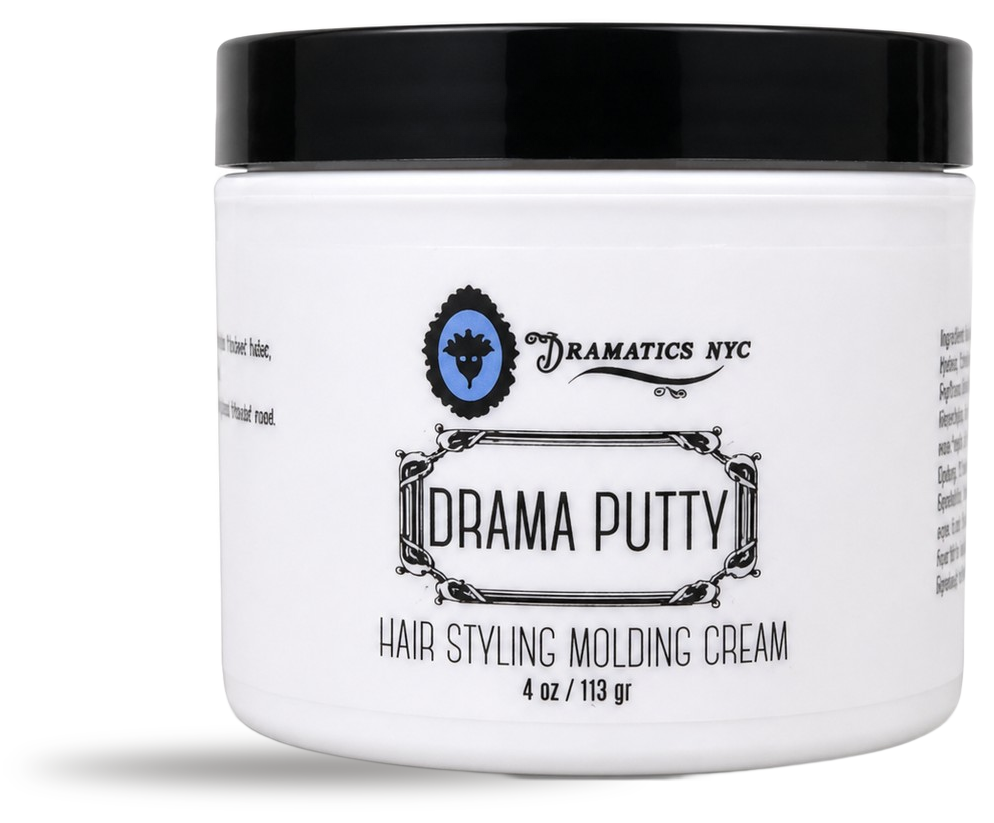
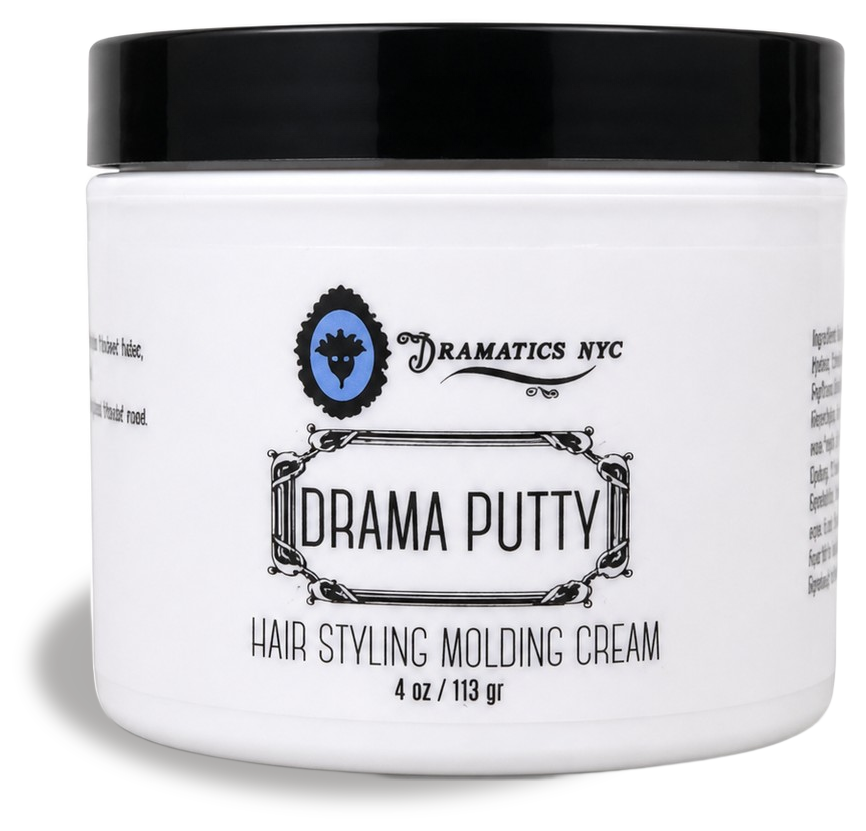
Products: every Dramatics NYC cutout gets the Healthy Color shadow (footprint cast lower-left, calibrated against Diesel Hayes and Ocean Beach); Quantum Leap, Forever Young and Color Protect Shampoo re-cut cleanly; Healthy Color originals untouched

diff --git a/scripts/product-shadows.py b/scripts/product-shadows.py
@@ -1,53 +1,86 @@
 #!/usr/bin/env python3
 """
-Give a clean product cutout (transparent PNG, no baked-in shadow) the same soft
-floor shadow the Ocean Beach Sea Salt Spray photo (42263.png) has: the base
-ellipse of the product, pushed to the lower left and heavily blurred, so most of
-it peeks out on the left of the base with a little under the bottom edge.
+Product cutout shadows, matched to the photographed shadow on the Healthy Color
+line (Diesel Hayes 38421.png, Ocean Beach 42263.png): the product's footprint
+ellipse cast to the lower left, soft, dark, strongest against the body.
 
 Usage:
-  python3 scripts/product-shadows.py <cutout.png> <out.png>
+  python3 scripts/product-shadows.py strip <in.png> <out.png>   # remove baked shadow
+  python3 scripts/product-shadows.py shadow <in.png> <out.png>  # add the house shadow
+  python3 scripts/product-shadows.py measure <in.png>           # print shadow geometry
 
-Only run this on cutouts WITHOUT an existing shadow. Products whose original
-photo already carries a real shadow (the Healthy Color line, Quantum Leap,
-Forever Young, Color Protect Shampoo) are left untouched.
+Measured on the reference photos (1024px): the shadow is offset left by about
+0.13 of the product height and down by about 0.02, the footprint ellipse is
+about 0.4 as tall as it is wide (camera slightly above), peak alpha about 0.43,
+color about (50, 46, 43).
 """
 import sys
 import numpy as np
 from PIL import Image, ImageFilter
+from scipy.ndimage import binary_fill_holes, binary_dilation, label
 
-SHADOW_RGB = (50, 46, 43)   # sampled from 42263.png
-PEAK_ALPHA = 0.55           # centre of the ellipse (42263 peaks ~0.43 next to the body)
+SHADOW_RGB = (50, 46, 43)
+PEAK_ALPHA = 0.50
+LEFT = 0.13      # of body height
+DOWN = 0.025     # of body height
+FOOT = 0.40      # footprint ellipse height / width
+BLUR = 0.013     # of body height
 
 
-def add_shadow(src: str, dst: str) -> None:
+def body_mask(alpha: np.ndarray) -> np.ndarray:
+    solid = binary_fill_holes(alpha >= 250)
+    lab, n = label(solid)
+    if n == 0:
+        return alpha > 128
+    sizes = np.bincount(lab.ravel())
+    sizes[0] = 0
+    return lab == sizes.argmax()
+
+
+def strip(src: str, dst: str) -> None:
+    """Keep the solid product (plus its 2px anti-aliased edge); drop any
+    semi-transparent baked-in shadow around it."""
+    im = Image.open(src).convert("RGBA")
+    a = np.array(im)
+    alpha = a[..., 3]
+    core = body_mask(alpha)
+    keep = binary_dilation(core, iterations=2)
+    # feathered product pixels that blend into the shadow: keep anything whose
+    # colour is clearly not the shadow colour, as long as it touches the body
+    rgb = a[..., :3].astype(int)
+    dist = np.abs(rgb - np.array(SHADOW_RGB)).sum(axis=2)
+    candidate = (alpha > 0) & (dist > 90)
+    grown = candidate & binary_dilation(core, iterations=12)
+    keep |= grown
+    a[..., 3] = np.where(keep, alpha, 0)
+    Image.fromarray(a).save(dst, optimize=True)
+
+
+def shadow(src: str, dst: str) -> None:
     im = Image.open(src).convert("RGBA")
     alpha = np.array(im)[..., 3]
-    ys, xs = np.where(alpha > 128)
+    body = body_mask(alpha)
+    ys, xs = np.where(body)
     top, bottom = ys.min(), ys.max()
     h = bottom - top + 1
 
-    # base span: widest rows in the bottom 5% of the body
-    base_rows = alpha[bottom - int(h * 0.05):bottom + 1]
-    cols = np.where(base_rows.max(axis=0) > 128)[0]
+    base_rows = body[bottom - int(h * 0.06):bottom + 1]
+    cols = np.where(base_rows.any(axis=0))[0]
     bl, br = cols.min(), cols.max()
     bw = br - bl + 1
     cx = (bl + br) / 2
 
-    # Ocean Beach proportions (bottle 250 wide, 916 tall):
-    # shadow reaches ~0.44 bw left of the body, spans ~0.055 h vertically,
-    # sits mostly above the bottom edge with ~0.012 h showing below it.
-    ew = 1.0 * bw                    # ellipse width
-    eh = max(24, 0.055 * h)          # ellipse height
-    ecx = cx - 0.42 * bw             # pushed left
-    ecy = bottom - 0.28 * eh         # a little below the base line
-    blur = float(max(6, 0.014 * h))
+    ew, eh = bw, FOOT * bw
+    ecx = cx - LEFT * h
+    ecy = bottom - eh / 2 + DOWN * h
+    blur = float(max(5, BLUR * h))
 
-    pad = int(0.6 * bw + blur * 4)
-    W, H = im.width + pad, im.height + int(blur * 4)
+    pad = int(LEFT * h + blur * 4 + 8)
+    W, H = im.width + pad, im.height + int(DOWN * h + blur * 4 + 8)
     yy, xx = np.mgrid[0:H, 0:W]
     r2 = ((xx - (ecx + pad)) / (ew / 2)) ** 2 + ((yy - ecy) / (eh / 2)) ** 2
-    sh = np.clip(1 - r2, 0, 1) ** 0.7 * PEAK_ALPHA
+    r = np.sqrt(np.clip(r2, 0, None))
+    sh = np.where(r <= 1, PEAK_ALPHA * (0.75 + 0.25 * (1 - r)), 0.0)
     mask = Image.fromarray((sh * 255).astype(np.uint8)).filter(ImageFilter.GaussianBlur(blur))
 
     out = Image.new("RGBA", (W, H), (0, 0, 0, 0))
@@ -64,5 +97,25 @@ def add_shadow(src: str, dst: str) -> None:
     out.save(dst, optimize=True)
 
 
+def measure(src: str) -> None:
+    im = Image.open(src).convert("RGBA")
+    alpha = np.array(im)[..., 3]
+    body = body_mask(alpha)
+    ys, xs = np.where(body)
+    outside = ~binary_dilation(body, iterations=2)
+    sh = np.where(outside, alpha, 0)
+    sy, sx = np.where(sh > 8)
+    h = ys.max() - ys.min() + 1
+    print(f"{src}: body x{xs.min()}-{xs.max()} y{ys.min()}-{ys.max()} h={h}; "
+          f"shadow x{sx.min()}-{sx.max()} y{sy.min()}-{sy.max()} peak={sh.max()/255:.2f}; "
+          f"left={(xs.min()-sx.min())/h:.3f}h down={(sy.max()-ys.max())/h:.3f}h")
+
+
 if __name__ == "__main__":
-    add_shadow(sys.argv[1], sys.argv[2])
+    cmd = sys.argv[1]
+    if cmd == "strip":
+        strip(sys.argv[2], sys.argv[3])
+    elif cmd == "shadow":
+        shadow(sys.argv[2], sys.argv[3])
+    elif cmd == "measure":
+        measure(sys.argv[2])
